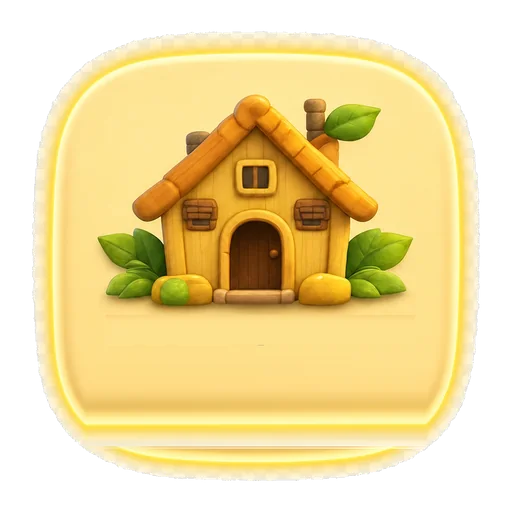
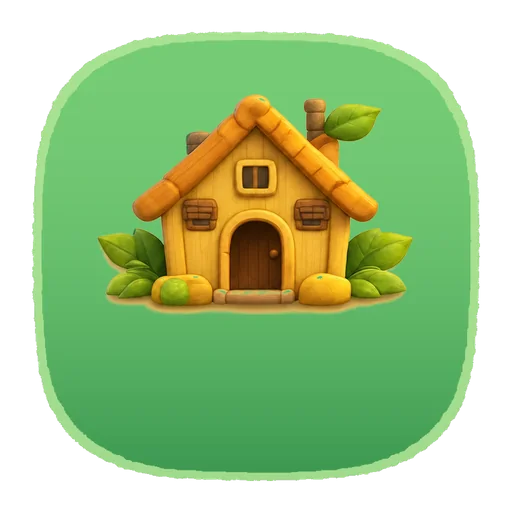
My Friends tab tile: green background behind the house.

diff --git a/pages/MyHomePage.tsx b/pages/MyHomePage.tsx
@@ -18,7 +18,7 @@ const homeworldUrlFor = (scope: string) => `${HOMEWORLD_URL}&profile=${encodeURI
 /** Loading screen art — the same sea and wheel as the ship deck. */
 const LOADING_SEA = '/assets/images/crew-voyage-sea-pano.webp?v=1';
 const LOADING_WHEEL = '/assets/images/sail-voyage-wheel.webp?v=1';
-const LOADING_HOME_ICON = '/assets/images/sail-voyage-tab-home.webp?v=1';
+const LOADING_HOME_ICON = '/assets/images/sail-voyage-tab-home.webp?v=2';
 const LOADING_WOOD = '/assets/images/wheel-background-wood.png';
 const LOADING_FADE_MS = 520;
 /** Give up waiting for the island's ready message this long after the frame loads. */

diff --git a/pages/CrewPage.tsx b/pages/CrewPage.tsx
@@ -342,7 +342,7 @@ const BOW_STRIP_BOTTOM = 0.885;
 const CREW_TAB_ART: Record<string, string> = {
   crew: '/assets/images/sail-voyage-tab-crew.webp?v=1',
   profile: '/assets/images/sail-voyage-tab-profile.webp?v=1',
-  home: '/assets/images/sail-voyage-tab-home.webp?v=1',
+  home: '/assets/images/sail-voyage-tab-home.webp?v=2',
   library: '/assets/images/sail-voyage-tab-library.webp?v=1',
 };
 const SHIP_TAB_WOOD = '/assets/images/sail-tab-wood.webp?v=1';

diff --git a/utils/assetCache.ts b/utils/assetCache.ts
@@ -38,7 +38,7 @@ const CREW_SHIP_ASSET_URLS = [
   '/assets/images/crew-button-plank.webp?v=1',
   '/assets/images/sail-voyage-wheel.webp?v=1',
   '/assets/images/crew-voyage-hatch.webp?v=1',
-  '/assets/images/sail-voyage-tab-home.webp?v=1',
+  '/assets/images/sail-voyage-tab-home.webp?v=2',
   '/assets/images/sail-voyage-tab-crew.webp?v=1',
   '/assets/images/sail-voyage-tab-profile.webp?v=1',
   '/assets/images/sail-voyage-tab-library.webp?v=1',

diff --git a/utils/assetPreloader.ts b/utils/assetPreloader.ts
@@ -39,7 +39,7 @@ const CREW_IMAGE_URLS = [
   '/assets/images/crew-voyage-bow.webp?v=1',
   '/assets/images/sail-voyage-tab-crew.webp?v=1',
   '/assets/images/sail-voyage-tab-profile.webp?v=1',
-  '/assets/images/sail-voyage-tab-home.webp?v=1',
+  '/assets/images/sail-voyage-tab-home.webp?v=2',
   '/assets/images/sail-voyage-tab-library.webp?v=1',
   '/assets/images/crew-voyage-hatch.webp?v=1',
   '/assets/images/wheel-background-wood.png',
